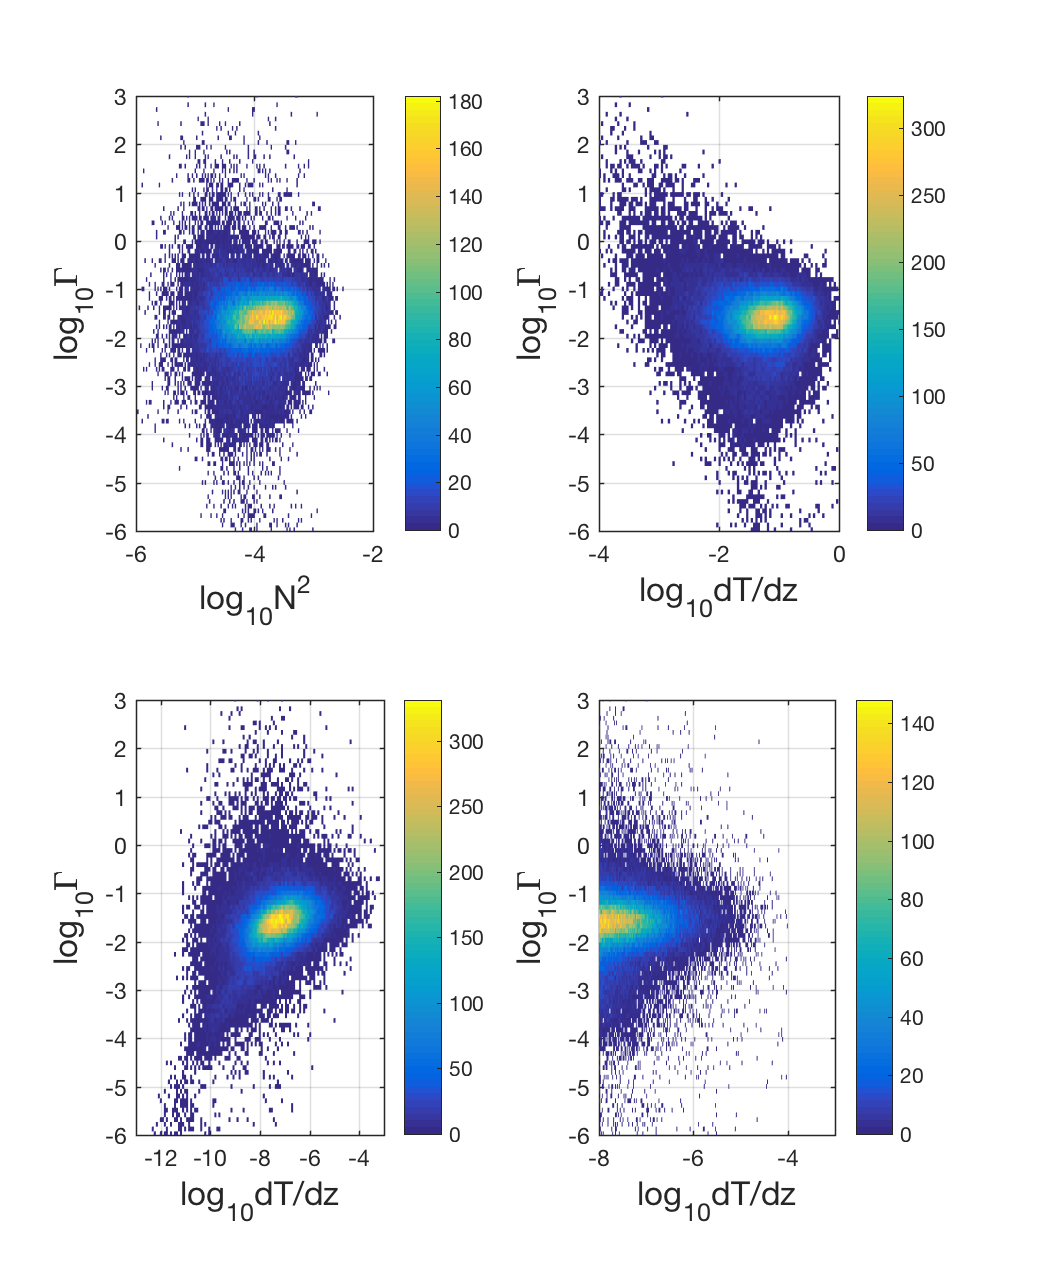
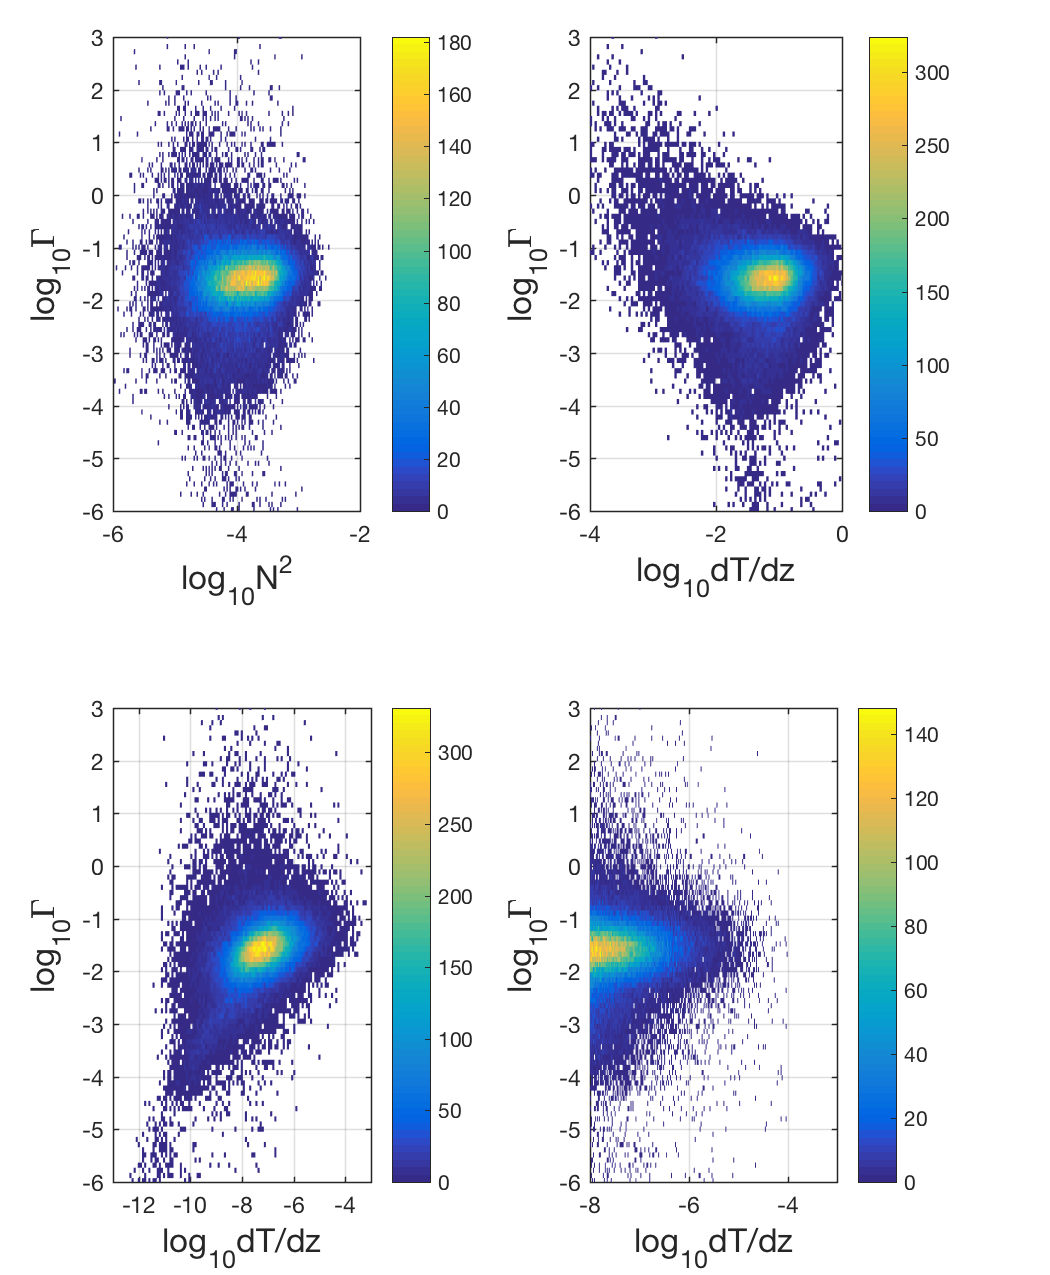
update w/ new 2d hist and binned plots
Older scatter plots colored by gamma had too many points and it was
difficult to see the true patterns

diff --git a/code/MakeEmilysPlot.m b/code/MakeEmilysPlot.m
@@ -4,6 +4,11 @@
 %
 % Can you make a scatter plot with N2 (or dTdz) on one axis, log10(chi) on a second axis, and color by the gamma (or log10 gamma) needed to have eps_chi=eps? Sorry I am stuck on the stratification piece. (Patches clumping so strongly at 1 m does seem like it might be problematic.)
 %
+% * Note: I think the scatter plots are misleading, because there are too
+% many points. See the 2D histograms further down, these should be more
+% accurate.
+%
+%
 %-------------------
 %  10/05/16 - A.Pickering - andypicke@gmail.com
 %~~~~~~~~~~~~~~~~~~~~~~~~~~~~
@@ -36,120 +41,120 @@ gam_cham=n2 .* chi ./2 ./ eps ./ (dtdz.^2);
 
 
 %% Plot N2 vs chi, color by gamma ?
+% 
+% % There's too many points and they are being overplotted, try taking a
+% % random subsample to plot
+% ir=randi(numel(n2),[round(0.05*numel(n2)),1] );
+% %ir=randi(numel(n2),[40000,1] );
+% 
+% close all
+% figure(1);clf
+% set(gca,'DefaultAxesFontsize',15)
+% %h=scatter( log10(n2(:)), log10(chi(:)), 10, log10(gam_cham(:)),'o', 'filled' ) 
+% h=scatter( log10(n2(ir)), log10(chi(ir)), 10, log10(gam_cham(ir)),'o', 'filled' ) 
+% 
+% % Make transparent (note only works in vers >= 2015b)
+% h.MarkerFaceAlpha=0.2
+% 
+% xlabel('log_{10}N^2','fontsize',16)
+% ylabel('log_{10}\chi','fontsize',16)
+% xlim([-6 -2.5])
+% ylim([-12 -4])
+% grid on
+% hc=colorbar;
+% hc.Label.String='log_{10}\Gamma';
+% hc.Label.FontSize=14;
+% caxis([-2.5 -0.5])
+% 
+% 
+% %%
+% 
+% figdir='/Users/Andy/Cruises_Research/ChiPod/Cham_Eq14_Compare/mfiles/Patches'
+% print( fullfile( figdir,'N2vsChi_byGamma'), '-dpng')
+% 
+% %% Plot N2 vs Epsilon, colored by gamma
+% close all
+% figure(1);clf
+% %h=scatter( log10(n2(:)), log10(eps(:)), 10, log10(gam_cham(:)), 'o', 'filled' ) 
+% h=scatter( log10(n2(ir)), log10(eps(ir)), 10, log10(gam_cham(ir)), 'o', 'filled' ) 
+% h.MarkerFaceAlpha=0.2
+% xlabel('log_{10}N^2','fontsize',16)
+% ylabel('log_{10}\epsilon','fontsize',16)
+% xlim([-6 -2.5])
+% ylim([-8 -4])
+% grid on
+% hc=colorbar;
+% hc.Label.String='log_{10}\Gamma';
+% hc.Label.FontSize=14;
+% %caxis([-2.25 -.85])
+% caxis([-2.5 -0.5])
+% %colormap(jet)
+% 
+% figdir='/Users/Andy/Cruises_Research/ChiPod/Cham_Eq14_Compare/mfiles/Patches'
+% print( fullfile( figdir,'N2vsEps_byGamma'), '-dpng')
+% 
+% %%
+% 
+% figure(3);clf
+% h=scatter(log10(eps),log10(gam_cham),'.','MarkerFaceAlpha',0.25)
+% xlabel('\epsilon','fontsize',16)
+% ylabel('\Gamma','fontsize',16)
+% grid on
+% ylim([-5 1])
+% %%
+% figure(5);clf
+% histogram2(log10(eps),log10(gam_cham),200,'DisplayStyle','tile')
+% xlabel('log_{10}\epsilon','fontsize',16)
+% ylabel('log_{10}\Gamma','fontsize',16)
+% colorbar
+% ylim([-5 2])
+% xlim([-8 -4])
+% title('2D hist')
+% 
+% %%
+% 
+% figure(4);clf
+% h=scatter(log10(chi),log10(gam_cham),'.','MarkerFaceAlpha',0.25)
+% xlabel('\chi','fontsize',16)
+% ylabel('\Gamma','fontsize',16)
+% grid on
+% ylim([-5 1])
+% 
+% 
+% %%
+% figure(5);clf
+% histogram2(log10(chi),log10(gam_cham),200,'DisplayStyle','tile')
+% xlabel('log_{10}\chi','fontsize',16)
+% ylabel('log_{10}\Gamma','fontsize',16)
+% colorbar
+% ylim([-6 3])
+% xlim([-13 -3])
+% title('2D hist')
+% 
+% %%
+% 
+% figure(5);clf
+% histogram2(real(log10(n2)),log10(gam_cham),200,'DisplayStyle','tile')
+% xlabel('log_{10}N^2','fontsize',16)
+% ylabel('log_{10}\Gamma','fontsize',16)
+% colorbar
+% ylim([-6 3])
+% xlim([-5.5 -3])
+% title('2D hist')
+% 
+% %%
+% 
+% figure(5);clf
+% histogram2(real(log10(dtdz)),log10(gam_cham),200,'DisplayStyle','tile')
+% xlabel('log_{10}dT/dz','fontsize',16)
+% ylabel('log_{10}\Gamma','fontsize',16)
+% colorbar
+% ylim([-6 3])
+% xlim([-4 -0])
+% title('2D hist')
+% 
 
-% There's too many points and they are being overplotted, try taking a
-% random subsample to plot
-ir=randi(numel(n2),[round(0.05*numel(n2)),1] );
-%ir=randi(numel(n2),[40000,1] );
-
-close all
-figure(1);clf
-set(gca,'DefaultAxesFontsize',15)
-%h=scatter( log10(n2(:)), log10(chi(:)), 10, log10(gam_cham(:)),'o', 'filled' ) 
-h=scatter( log10(n2(ir)), log10(chi(ir)), 10, log10(gam_cham(ir)),'o', 'filled' ) 
-
-% Make transparent (note only works in vers >= 2015b)
-h.MarkerFaceAlpha=0.2
-
-xlabel('log_{10}N^2','fontsize',16)
-ylabel('log_{10}\chi','fontsize',16)
-xlim([-6 -2.5])
-ylim([-12 -4])
-grid on
-hc=colorbar;
-hc.Label.String='log_{10}\Gamma';
-hc.Label.FontSize=14;
-caxis([-2.5 -0.5])
-
-
-%%
-
-figdir='/Users/Andy/Cruises_Research/ChiPod/Cham_Eq14_Compare/mfiles/Patches'
-print( fullfile( figdir,'N2vsChi_byGamma'), '-dpng')
-
-%% Plot N2 vs Epsilon, colored by gamma
-close all
-figure(1);clf
-%h=scatter( log10(n2(:)), log10(eps(:)), 10, log10(gam_cham(:)), 'o', 'filled' ) 
-h=scatter( log10(n2(ir)), log10(eps(ir)), 10, log10(gam_cham(ir)), 'o', 'filled' ) 
-h.MarkerFaceAlpha=0.2
-xlabel('log_{10}N^2','fontsize',16)
-ylabel('log_{10}\epsilon','fontsize',16)
-xlim([-6 -2.5])
-ylim([-8 -4])
-grid on
-hc=colorbar;
-hc.Label.String='log_{10}\Gamma';
-hc.Label.FontSize=14;
-%caxis([-2.25 -.85])
-caxis([-2.5 -0.5])
-%colormap(jet)
-
-figdir='/Users/Andy/Cruises_Research/ChiPod/Cham_Eq14_Compare/mfiles/Patches'
-print( fullfile( figdir,'N2vsEps_byGamma'), '-dpng')
-
-%%
-
-figure(3);clf
-h=scatter(log10(eps),log10(gam_cham),'.','MarkerFaceAlpha',0.25)
-xlabel('\epsilon','fontsize',16)
-ylabel('\Gamma','fontsize',16)
-grid on
-ylim([-5 1])
-%%
-figure(5);clf
-histogram2(log10(eps),log10(gam_cham),200,'DisplayStyle','tile')
-xlabel('log_{10}\epsilon','fontsize',16)
-ylabel('log_{10}\Gamma','fontsize',16)
-colorbar
-ylim([-5 2])
-xlim([-8 -4])
-title('2D hist')
-
-%%
-
-figure(4);clf
-h=scatter(log10(chi),log10(gam_cham),'.','MarkerFaceAlpha',0.25)
-xlabel('\chi','fontsize',16)
-ylabel('\Gamma','fontsize',16)
-grid on
-ylim([-5 1])
-
-
-%%
-figure(5);clf
-histogram2(log10(chi),log10(gam_cham),200,'DisplayStyle','tile')
-xlabel('log_{10}\chi','fontsize',16)
-ylabel('log_{10}\Gamma','fontsize',16)
-colorbar
-ylim([-6 3])
-xlim([-13 -3])
-title('2D hist')
-
-%%
-
-figure(5);clf
-histogram2(real(log10(n2)),log10(gam_cham),200,'DisplayStyle','tile')
-xlabel('log_{10}N^2','fontsize',16)
-ylabel('log_{10}\Gamma','fontsize',16)
-colorbar
-ylim([-6 3])
-xlim([-5.5 -3])
-title('2D hist')
-
-%%
-
-figure(5);clf
-histogram2(real(log10(dtdz)),log10(gam_cham),200,'DisplayStyle','tile')
-xlabel('log_{10}dT/dz','fontsize',16)
-ylabel('log_{10}\Gamma','fontsize',16)
-colorbar
-ylim([-6 3])
-xlim([-4 -0])
-title('2D hist')
-
-
-%%
+%% Plot 2D histograms of gamma vs each variable
 
 figure(1);clf
 agutwocolumn(1)
@@ -219,19 +224,21 @@ subplot(211)
 pcolor(log10(dN(1:end-1)),log10(dchi(1:end-1)),mean_gamma)
 %pcolor(log10(dN(1:end-1)),log10(dchi(1:end-1)),median_gamma)
 shading flat
-caxis([0 0.15])
-colorbar
+caxis([0 0.1])
+cb=colorbar;
+cb.Label.String='\Gamma';
 ylabel('log_{10}\chi','fontsize',16)
 xlabel('log_{10}N^2','fontsize',16)
 grid on
-title('mean gamma')
+title('mean gamma') 
 
 subplot(212)
 %pcolor(log10(dN(1:end-1)),log10(dchi(1:end-1)),mean_gamma)
 pcolor(log10(dN(1:end-1)),log10(dchi(1:end-1)),median_gamma)
 shading flat
-caxis([0 0.15])
-colorbar
+caxis([0 0.11])
+cb=colorbar;
+cb.Label.String='\Gamma';
 ylabel('log_{10}\chi','fontsize',16)
 xlabel('log_{10}N^2','fontsize',16)
 grid on
